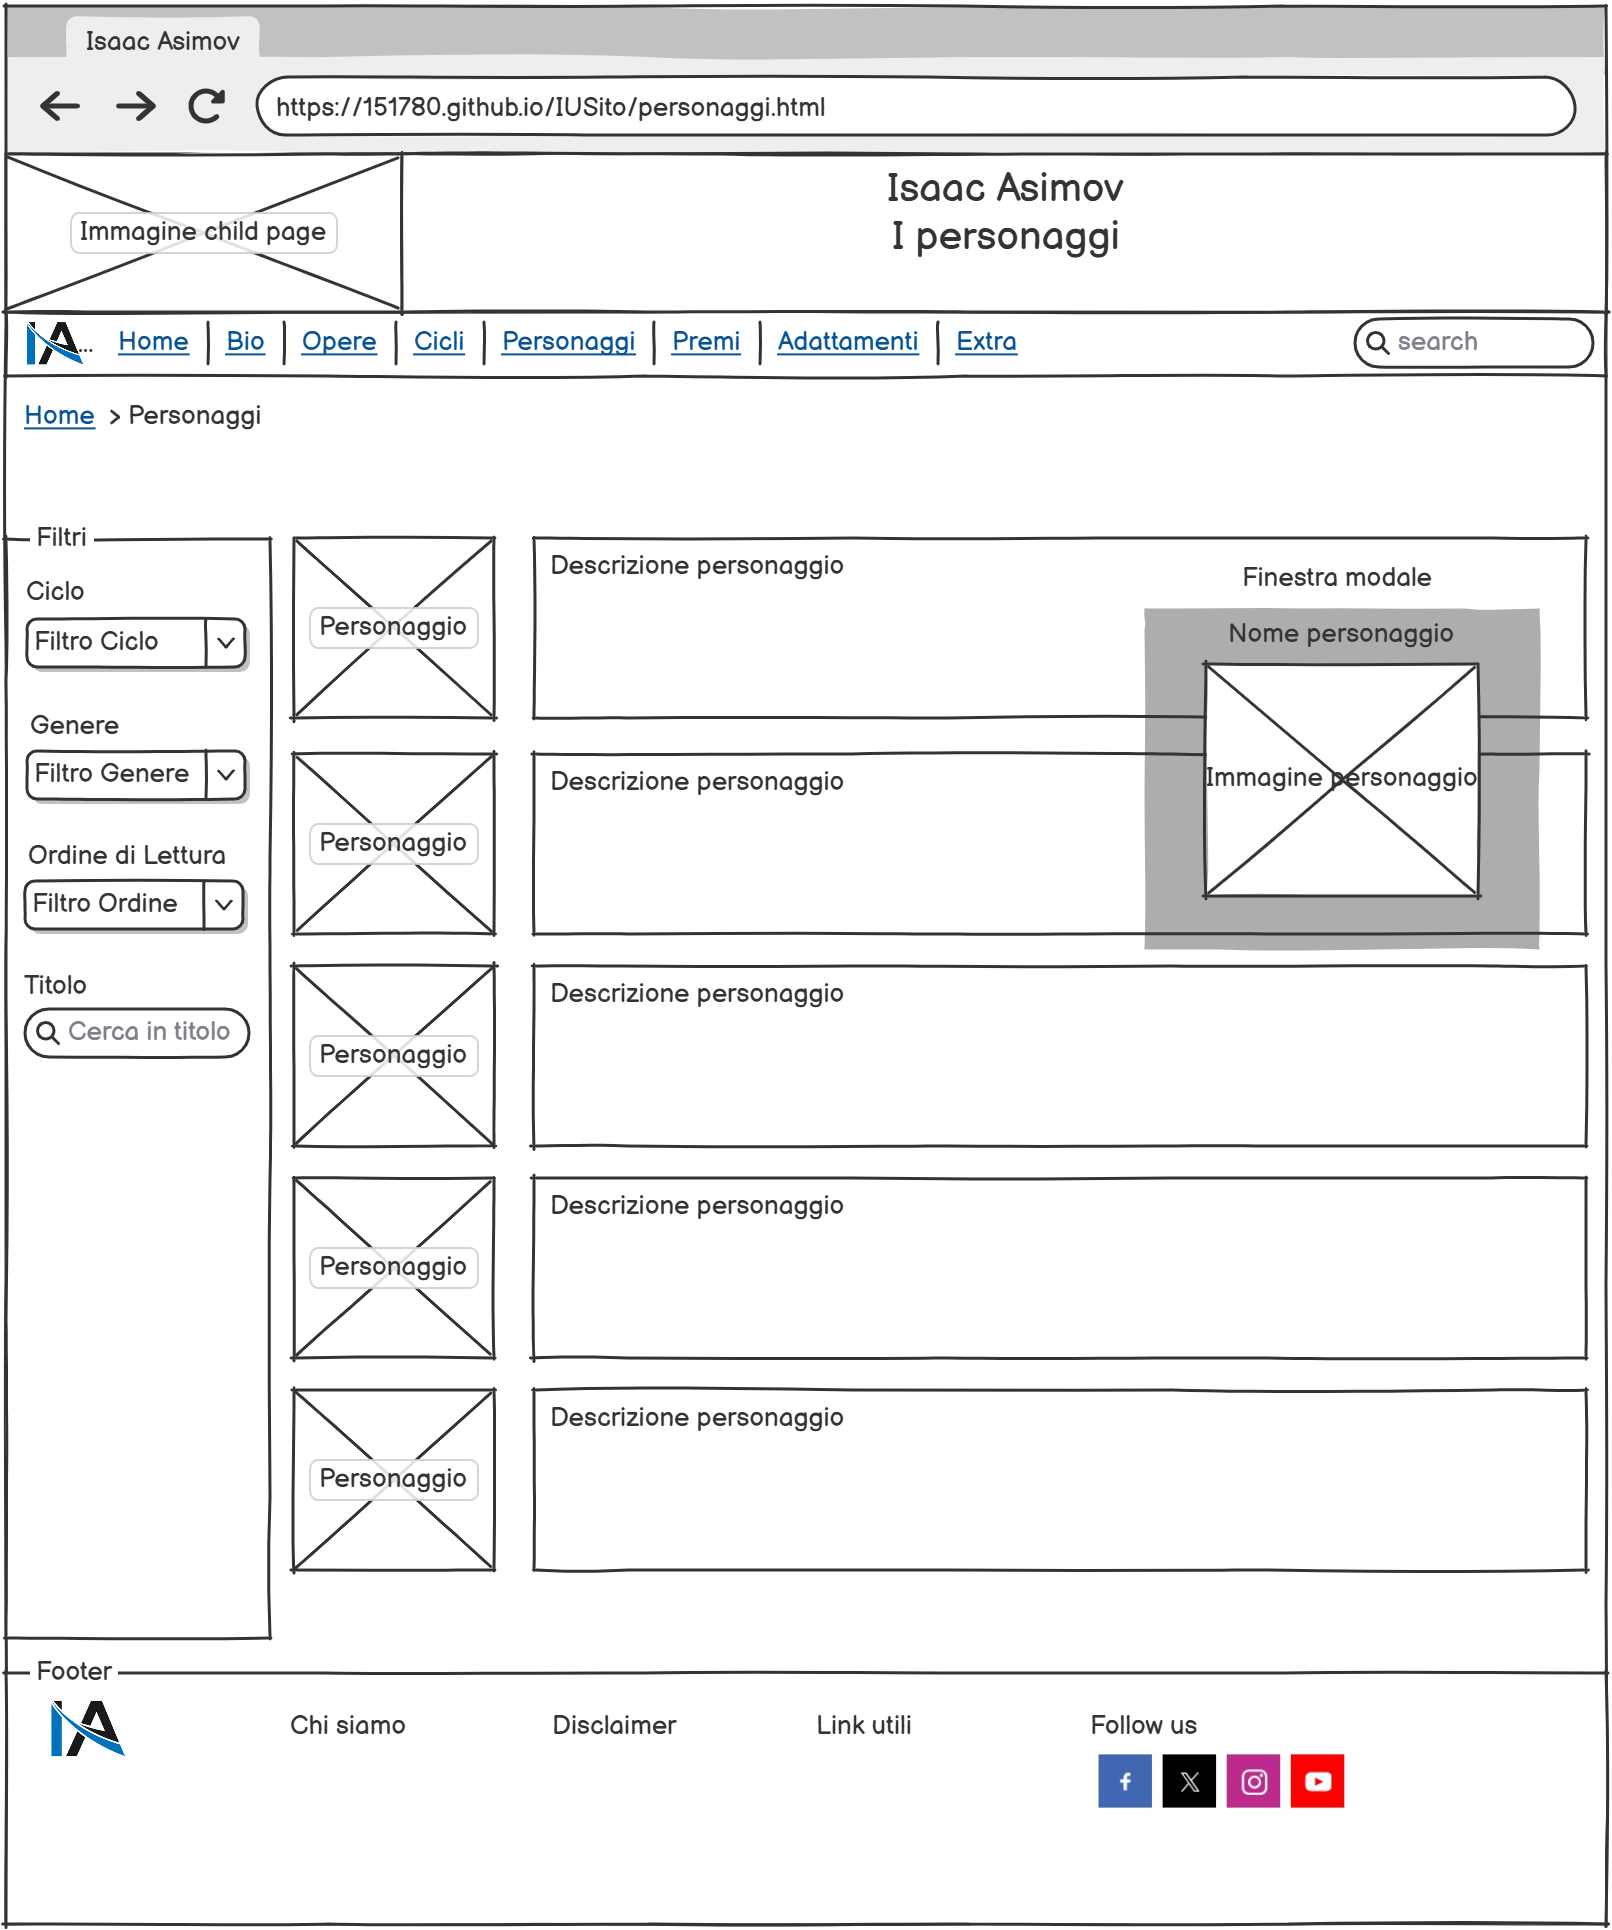
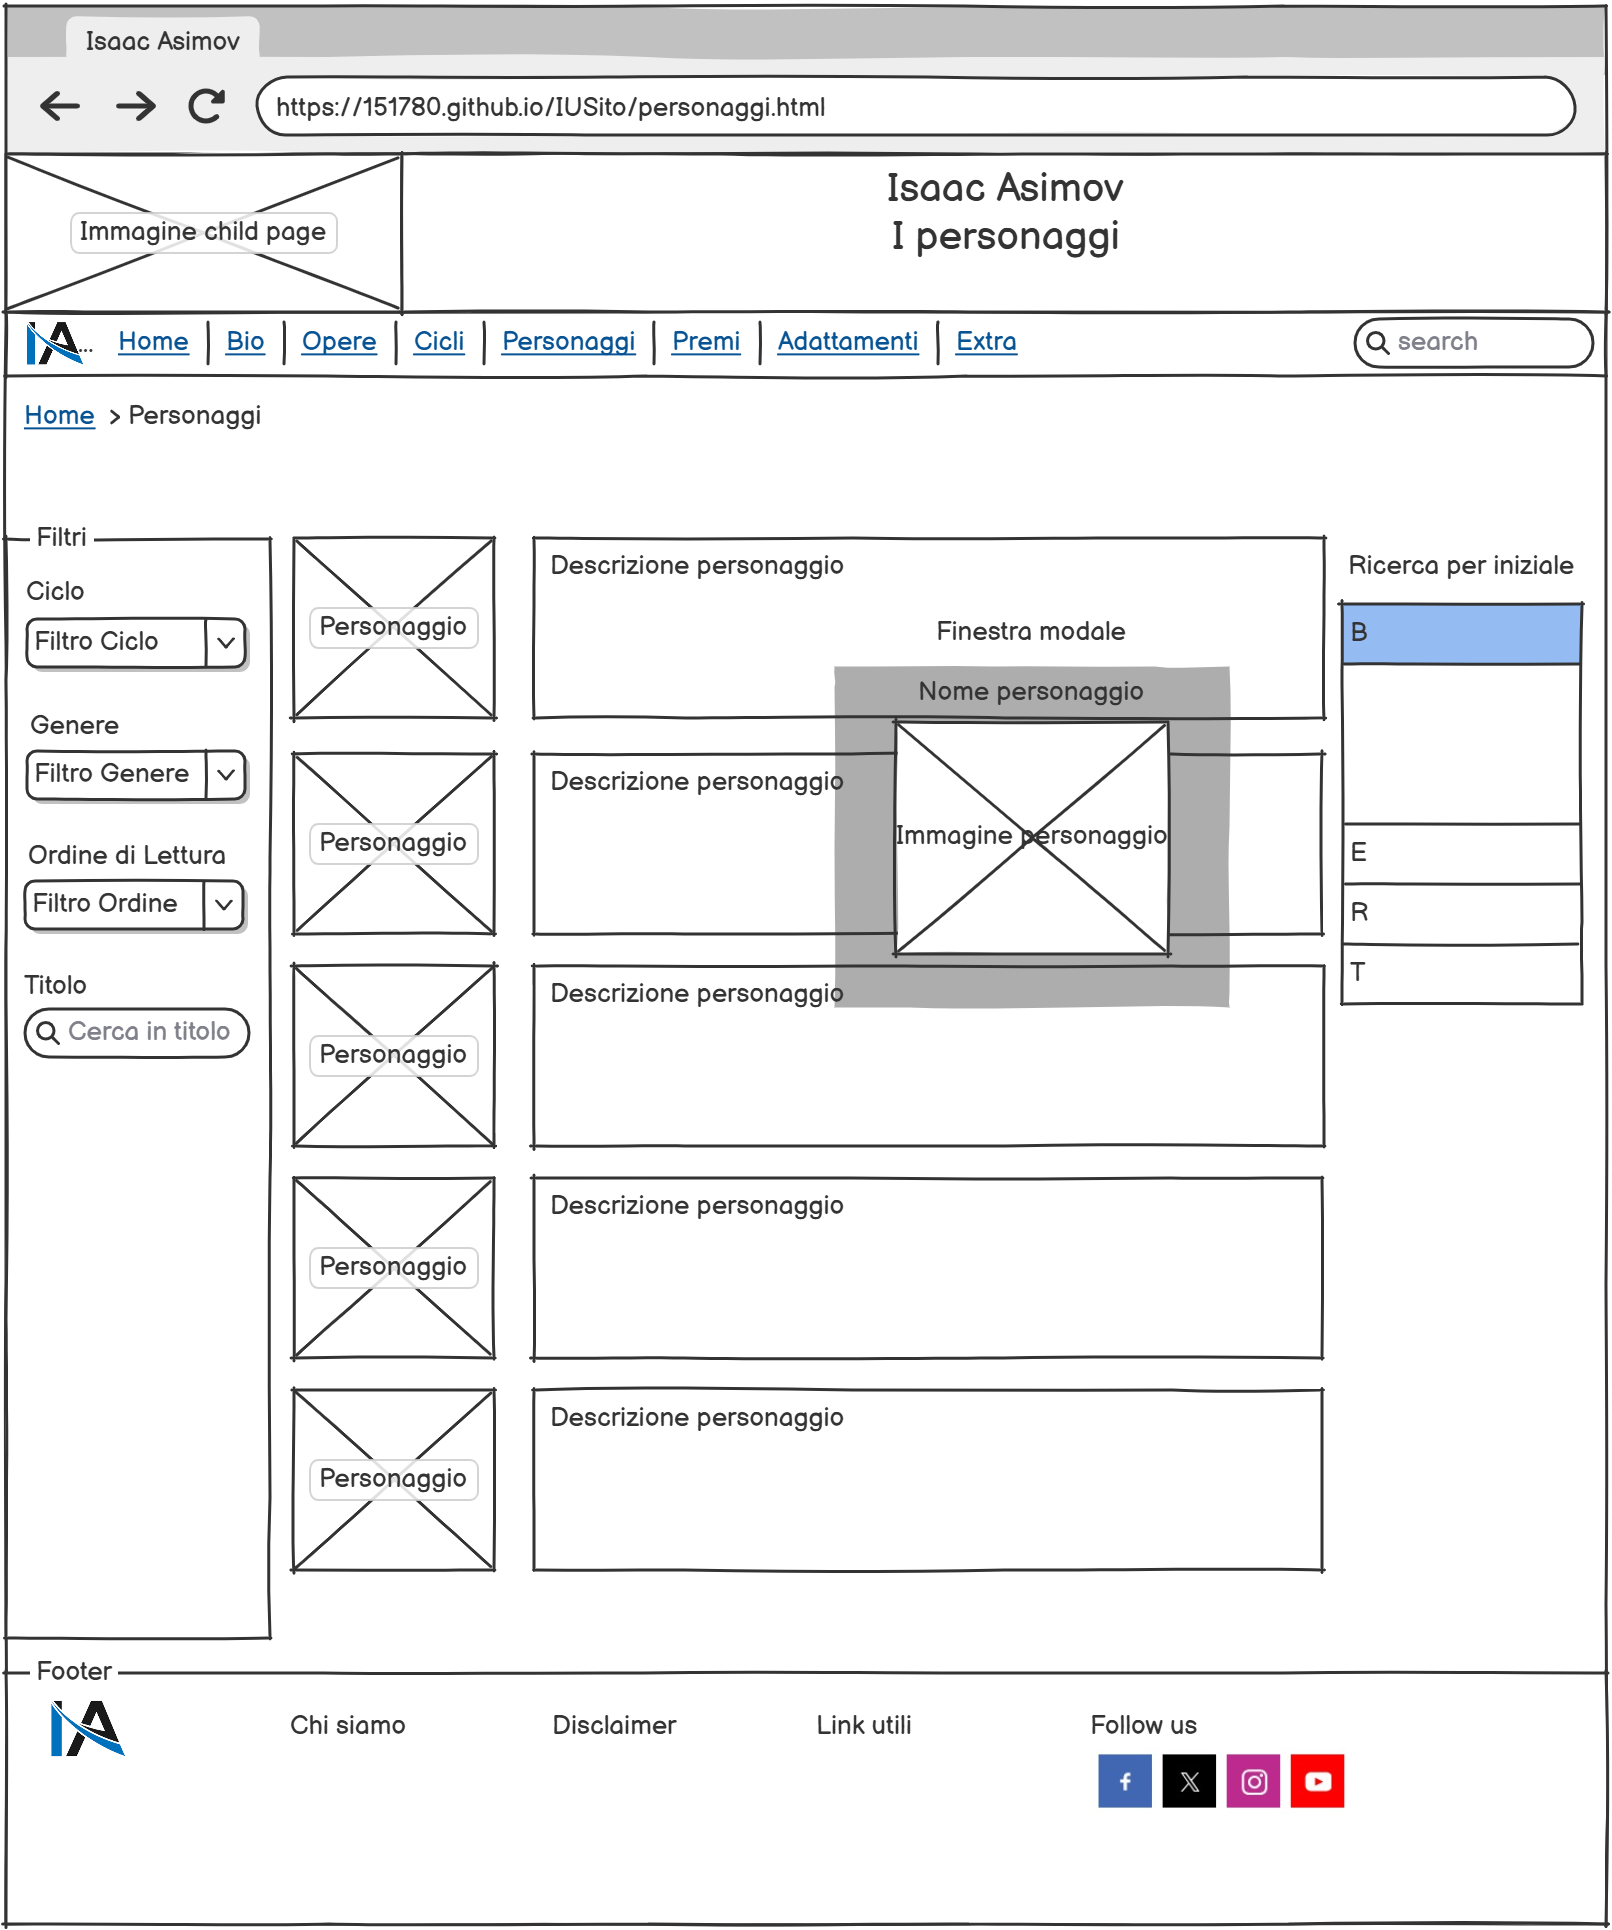
Final commit

diff --git a/wpp.html b/wpp.html
@@ -433,10 +433,11 @@
 					</p>
 					<h5 class="mt-1" id="wfpersonaggi"><em>5.1.4 Wireframe personaggi</em></h5>
 						<p>
-						Il corpo della pagina è diviso in due sezioni:
+						Il corpo della pagina è diviso in tre sezioni:
 						<ul>
 							<li>colonna sul lato sinistro con filtri e casella di ricerca testuale sul nome</li>
 							<li>raccolta dei personaggi con immagine, attributi e descrizione</li>
+							<li>colonna sul lato destro con accordion per iniziale nome</li>
 						</ul>
 						<img src="img/personaggi.html.png" class="img-fluid mx-auto d-block p-2 w-75" alt="Pagina personaggi">
 					</p>
@@ -541,6 +542,7 @@
 						<ul>
 							<li><strong>caselle combinate</strong> che filtrano le raccolte in base a molteplici campi</li>
 							<li><strong>caselle combinate</strong> che ordinano le raccolte in base a molteplici campi</li>
+							<li><strong>accordion</strong> basato sulle iniziali dei personaggi</li>
 							<li><strong>caselle di ricerca testuale</strong> che ricercano nel campo principale della raccolta (Titolo, Nome)</li>
 							<li><strong>slider a due indici</strong> per filtrare le date</li>
 							<li><strong>pulsante modale</strong> per tornare a inizio pagina</li>
